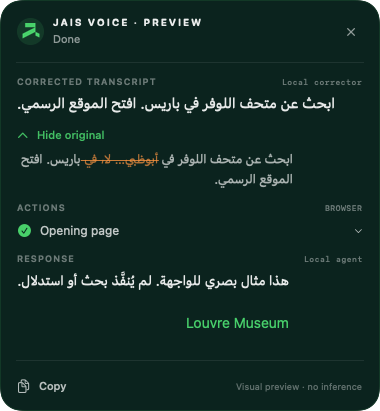
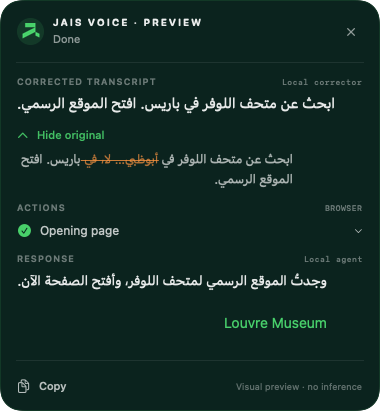
Fix the preview texts shown in the README screenshots
The approval preview gave its reason in French, and the Arabic preview
answer described the screenshot instead of the action. Regenerate both
images from the preview.

Changed region(s): [[0.0579, 0.6423, 0.8684, 0.7007], [0.4921, 0.7591, 0.8684, 0.8175]]

diff --git a/macos/Sources/HorizonVoice/AppDelegate.swift b/macos/Sources/HorizonVoice/AppDelegate.swift
@@ -693,7 +693,7 @@ import UniformTypeIdentifiers
             WireEvent(type: "correction", turn_id: id, text: "ابحث عن متحف اللوفر في باريس. افتح الموقع الرسمي."),
             WireEvent(type: "tool_start", turn_id: id, tool_id: "preview-only", tool_name: "browser_navigate", arguments: .object(["url": .string("https://www.louvre.fr")])),
             WireEvent(type: "tool_end", turn_id: id, tool_id: "preview-only", result: L("Visual example, no browsing performed.")),
-            WireEvent(type: "complete", turn_id: id, text: "هذا مثال بصري للواجهة. لم يُنفَّذ بحث أو استدلال.\n\n[Louvre Museum](https://www.louvre.fr)")
+            WireEvent(type: "complete", turn_id: id, text: "وجدتُ الموقع الرسمي لمتحف اللوفر، وأفتح الصفحة الآن.\n\n[Louvre Museum](https://www.louvre.fr)")
         ]
         for event in events { state.accept(event) }
         if CommandLine.arguments.contains("--preview-followup") {
@@ -710,7 +710,7 @@ import UniformTypeIdentifiers
         if CommandLine.arguments.contains("--preview-approval") {
             let approval = state.begin()
             state.accept(WireEvent(type: "correction", turn_id: approval, text: "Open Safari on the home page."))
-            state.pendingApproval = ActionRequest(tool: "macOS command", reason: "Ouvrir Safari.", details: "/usr/bin/open -a Safari")
+            state.pendingApproval = ActionRequest(tool: "macOS command", reason: "Open Safari.", details: "/usr/bin/open -a Safari")
         }
         state.showOriginal = true
         let previousFrontmost = NSWorkspace.shared.frontmostApplication?.processIdentifier
